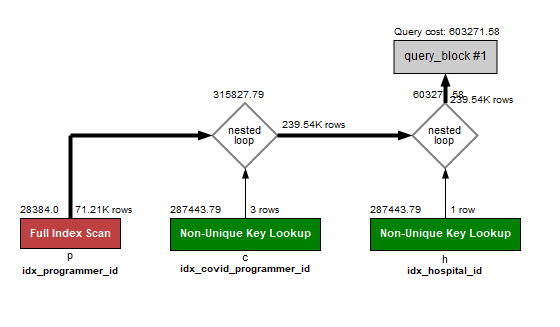
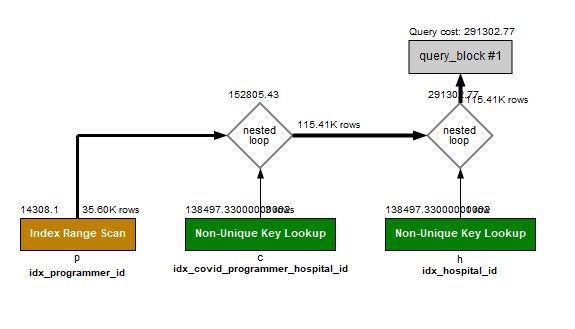
docs: 피드백 반영
- fullTableScan 최대한 제거

Changed region(s): [[0.0304, 0.0612, 0.9411, 0.8563]]

diff --git a/README.md b/README.md
@@ -94,8 +94,9 @@ npm run dev
    * 인덱스 설계 - 주어진 데이터셋을 활용하여 아래 조회 결과를 100ms 이하로 반환
      - [x] Coding as a Hobby 와 같은 결과를 반환하세요.
        ```sql
+       SET @totalCnt = (SELECT COUNT(*) FROM programmer);
        SELECT hobby,
-       ROUND(COUNT(hobby) / (SELECT COUNT(hobby) FROM programmer) * 100, 1) as percentage
+       ROUND(COUNT(hobby) / @totalCnt * 100, 1) as percentage
        FROM programmer
        GROUP BY hobby
        ORDER BY hobby DESC;
@@ -106,7 +107,7 @@ npm run dev
 
        인덱스 생성 전 | 인덱스 생성 후
                ---|---
-       0.813 sec | 0.093 sec
+       0.813 sec | 0.058 sec
      
        **인덱스 생성 전**<br>
        ![인덱스 생성 전](sqlResult/인덱스설계/request_first_before.png)
@@ -116,16 +117,18 @@ npm run dev
      
      - [x] 프로그래머별로 해당하는 병원 이름을 반환하세요. (covid.id, hospital.name)
         ```sql
-        SELECT c.id, h.name FROM programmer p
-        INNER JOIN covid c
-            ON p.member_id = c.member_id
+        SELECT c.id
+        FROM covid c
+        INNER JOIN programmer p
+            ON c.programmer_id = p.id
         INNER JOIN hospital h
-            ON c.hospital_id = h.id;
+            ON c.hospital_id = h.id
+        WHERE c.programmer_id IS NOT NULL;
        ```
        ```sql
-        CREATE INDEX idx_programmer_id ON programmer (id);
-        CREATE INDEX idx_covid_programmer_id ON covid (programmer_id);
-        CREATE INDEX idx_hospital_id ON hospital (id);
+        CREATE INDEX idx_programmer_id ON  programmer (id);
+        CREATE INDEX idx_covid_programmer_hospital_id ON  covid (programmer_id, hospital_id);
+        CREATE INDEX idx_hospital_id ON  hospital (id);
        ```
        인덱스 생성 전 | 인덱스 생성 후
                       ---|---
@@ -146,17 +149,18 @@ npm run dev
         INNER JOIN hospital h
         ON c.hospital_id = h.id
         WHERE p.hobby = 'Yes'
-        AND p.student LIKE 'Yes%' OR p.years_coding = '0-2 years'
+        AND (p.student LIKE 'Yes%' OR p.years_coding = '0-2 years')
         ORDER BY p.id ;
        ```
        ```sql
+        CREATE INDEX idx_programmer_hobby ON programmer (hobby);
         CREATE INDEX idx_programmer_id ON programmer (id);
         CREATE INDEX idx_covid_programmer_id ON covid (programmer_id);
         CREATE INDEX idx_hospital_id ON hospital (id);
        ```
        인덱스 생성 전 | 인덱스 생성 후
         ---|---
-       측정불가(뻗음) | 0.031 sec
+       측정불가(뻗음) | 0.016 sec
 
        **인덱스 생성 전**<br>
        [x]
